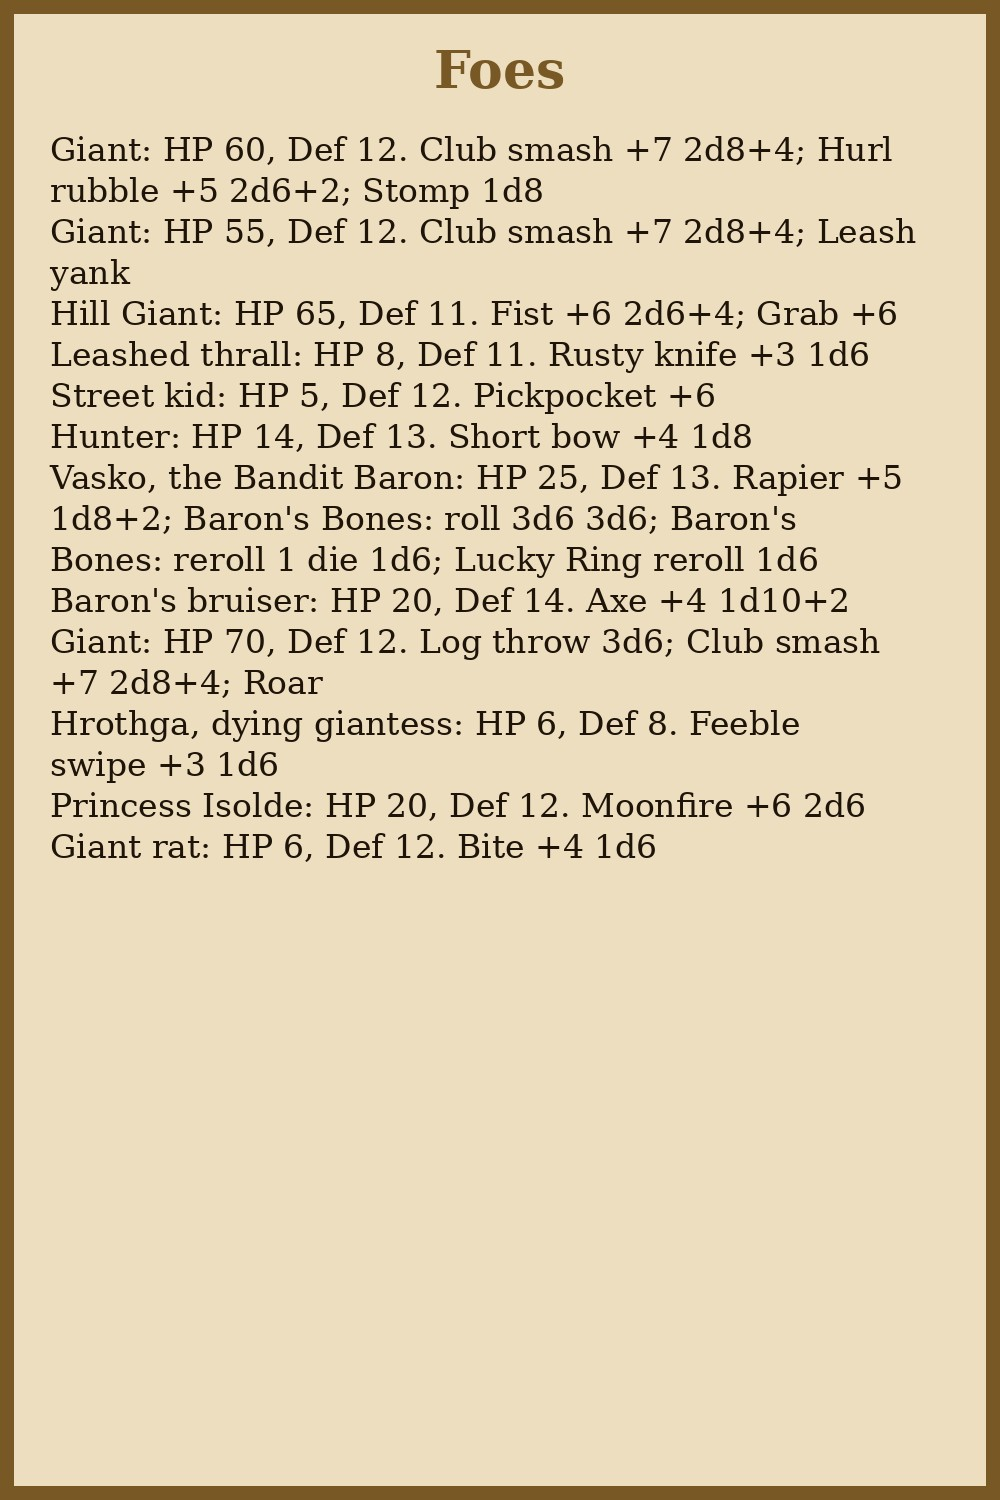
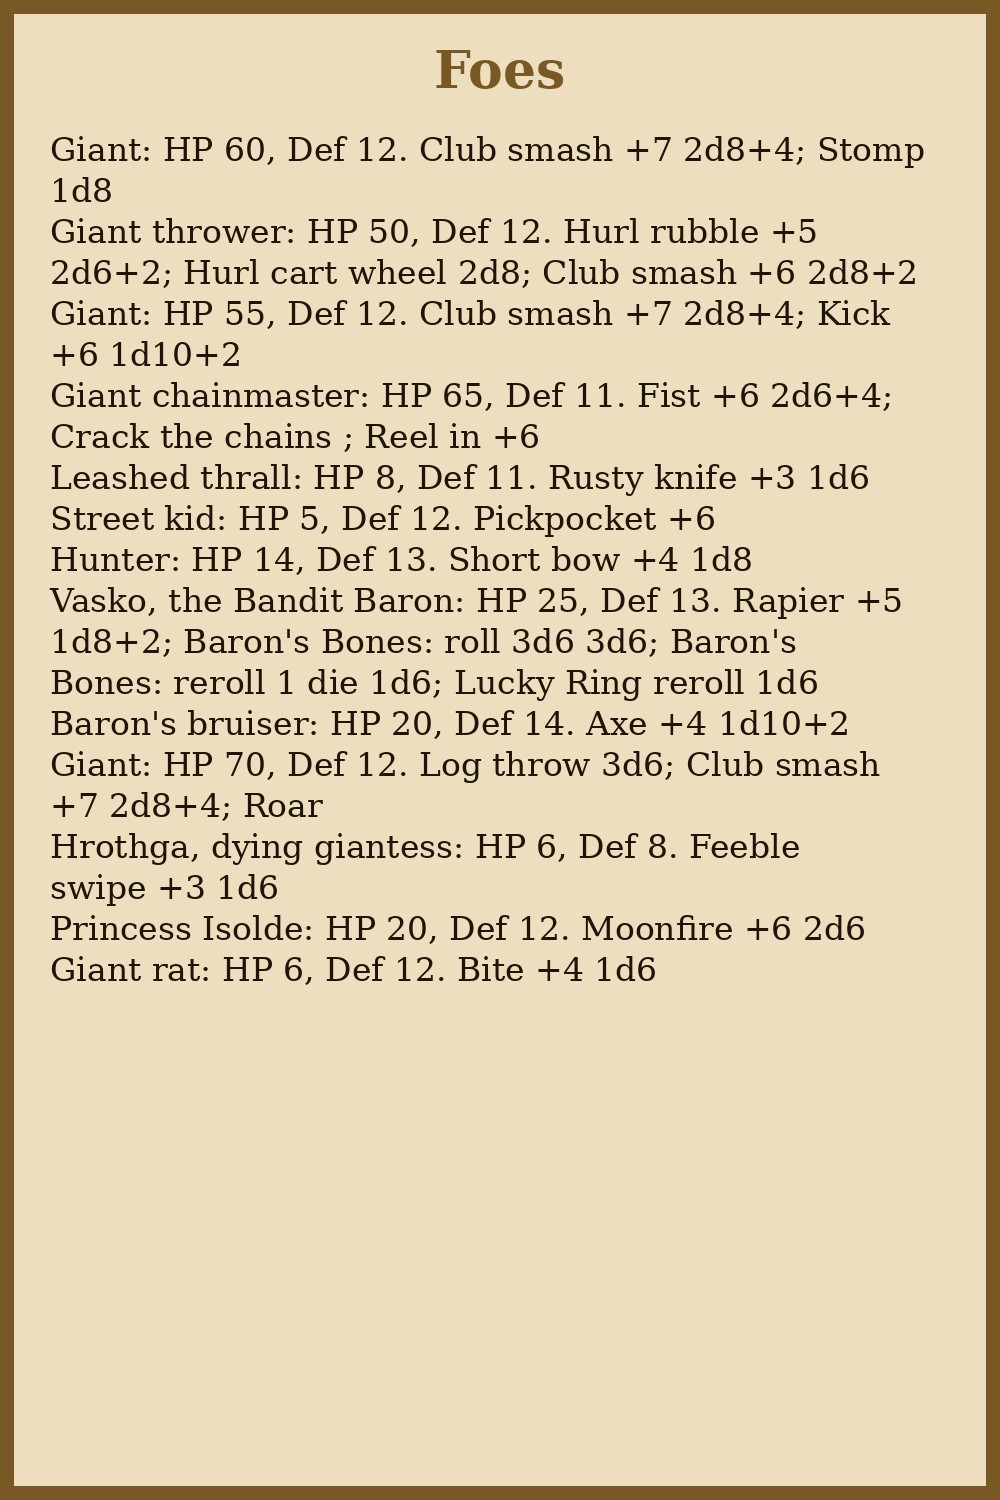
Giant chainmaster holds the thralls' chains; Giant thrower; Kick replaces Leash yank

Changed region(s): [[0.031, 0.1227, 0.93, 0.6747], [0.589, 0.6133, 0.868, 0.6747], [0.806, 0.092, 0.93, 0.1227]]

diff --git a/content.py b/content.py
@@ -136,20 +136,27 @@ Stats: Might (force, climbing, lifting), Agility (sneak, dodge, lockpick), Wits 
 NPCS = {
     "giant_club": dict(name="Giant", fig="rpg_CYCLOP", hp=60, defense=12, attacks=[
         ("Club smash", 7, "2d8+4", "melee, reach 2"),
-        ("Hurl rubble", 5, "2d6+2", "range 10"),
         ("Stomp", None, "1d8", "all adjacent: Agility DC 13 or take it and fall prone"),
     ], notes="WICKER SHIELD: ranged attacks against it get -5 unless the shield is burned. Moves 8."),
+    "giant_thrower": dict(name="Giant thrower", fig="rpg_CYCLOP", scale=0.9, hp=50, defense=12, attacks=[
+        ("Hurl rubble", 5, "2d6+2", "range 10"),
+        ("Hurl cart wheel", None, "2d8", "a line 6 long, Agility DC 13 for half"),
+        ("Club smash", 6, "2d8+2", "melee, reach 2"),
+    ], notes="Hangs back and throws whatever the street offers. Moves 8."),
     "giant_eye": dict(name="Giant", fig="rpg_CYCLOP", hp=55, defense=12, attacks=[
         ("Club smash", 7, "2d8+4", "melee, reach 2"),
-        ("Leash yank", None, None, "pulls its thrall back next to it"),
+        ("Kick", 6, "1d10+2", "melee, target flies 3 squares and falls prone"),
     ], notes="WICKER SHIELD: ranged -5. One eye: a blinding trick (sand, light) makes it miss next turn."),
-    "giant_troll": dict(name="Hill Giant", fig="rpg_CYCLOP", scale=1.2, base=(0.2, 0.45, 0.15), hp=65, defense=11, attacks=[
+    "giant_troll": dict(name="Giant chainmaster", fig="rpg_CYCLOP", scale=1.2, base=(0.2, 0.45, 0.15), hp=65, defense=11,
+                        attacks=[
         ("Fist", 6, "2d6+4", "melee, reach 2"),
-        ("Grab", 6, None, "target is held: Might DC 14 to break free, 1d6 each turn"),
-    ], notes="WICKER SHIELD: ranged -5. Slow, moves 6."),
+        ("Crack the chains", None, None, "every thrall moves 3 and makes a free Rusty knife attack"),
+        ("Reel in", 6, None, "range 6: target is dragged next to him and held, Might DC 14 to break free"),
+    ], notes="Holds all the thralls' chains. THRALL SHIELD: when he is hit, an adjacent thrall can take the blow "
+             "instead. Kill or drop him and the chains go slack: every thrall flees. Slow, moves 6."),
     "thrall": dict(name="Leashed thrall", fig="rpg_GHOUL", hp=8, defense=11, attacks=[
         ("Rusty knife", 3, "1d6", "melee"),
-    ], notes="Captured looter on a chain. Cutting the leash (Agility DC 12) and the thrall runs off."),
+    ], notes="Captured looter on the Chainmaster's chain. Cutting the leash (Agility DC 12) and the thrall runs off."),
     "street_kid": dict(name="Street kid", fig="rpg_KOBOLD", hp=5, defense=12, attacks=[
         ("Pickpocket", 6, None, "steals 1 gold if it beats the target's Defense"),
     ], notes="Speaks only Dravic. Works for the Bandit Baron."),
@@ -292,7 +299,7 @@ fenced in Holst by the thieves' guild. The giants came to take it back - and eve
          npcs=[("street_kid", -4, 3), ("street_kid", -3, 4), ("street_kid", -5, 4),
                # the giants come round the east corner in a wedge, thralls strung out ahead of them on their chains,
                # and one giant flanks along the ruins in the south
-               ("giant_troll", 7.3, -1.3), ("giant_club", 8.6, -0.5), ("giant_eye", 8.4, -2.8), ("giant_club", 0.5, -6.3),
+               ("giant_troll", 7.3, -1.3), ("giant_club", 8.6, -0.5), ("giant_eye", 8.4, -2.8), ("giant_thrower", 0.5, -6.3),
                ("thrall", 7.5, 0.9), ("thrall", 7.0, 0.2), ("thrall", 6.4, -0.3), ("thrall", 5.8, -0.9),
                ("thrall", 4.6, -1.2), ("thrall", 6.0, -1.9), ("thrall", 5.9, -3.0)],
          notes="""Read aloud: "Holst's gate hangs open. Doors are smashed in, from above. Footprints the size
@@ -306,7 +313,8 @@ STREET KIDS (Dravic only): hands out, "Pénz? Pénz?" (money). Fighter can make 
 GIANTS: hide them at the start (select, TOGGLE VISIBILITY). After a few minutes the ground shakes: toggle
 them back. Four giants round the
 corner with thralls on chains, wicker shields raised. THIS FIGHT IS MEANT TO BE FLED.
-  Switch to BATTLE music. Giants move 8 (the Hill Giant 6), thralls 6. Let them feel the danger: first giant hit is big.
+  Switch to BATTLE music. Giants move 8 (the Chainmaster 6), thralls 6.
+  The Chainmaster (big, green base) holds every thrall's chain: drop him and the thralls scatter. Let them feel the danger: first giant hit is big.
   Escape: the sewer grate (centre-south). Might DC 12 to lift, or the kids point at it and scatter.
   Anyone who jumps in: next scene."""),
 

diff --git a/test_lua.py b/test_lua.py
@@ -407,7 +407,7 @@ end
 """)
 npc.execute(giant["LuaScript"])
 ng.onLoad(giant["LuaScriptState"])
-assert "ProgressBar" in ng.xml and ng.xml.count("<Button") == 3
+assert "ProgressBar" in ng.xml and ng.xml.count("<Button") == len(json.loads(giant["LuaScriptState"])["attacks"])
 assert 'rotation="90 -90 90"' in ng.xml            # upright bar facing the way the figure faces
 ng.applyDamage(None, "+12")
 assert ng.attrs["bar.percentage"] == "80" and ng.attrs["hp.text"].startswith("48/60")

diff --git a/GM_GUIDE.md b/GM_GUIDE.md
@@ -61,10 +61,11 @@ Stats: Might (force, climbing, lifting), Agility (sneak, dodge, lockpick), Wits 
 
 ## NPCs
 
-- **Giant** HP 60, Def 12. Club smash (+7, 2d8+4, melee, reach 2); Hurl rubble (+5, 2d6+2, range 10); Stomp (no roll, 1d8, all adjacent: Agility DC 13 or take it and fall prone). WICKER SHIELD: ranged attacks against it get -5 unless the shield is burned. Moves 8.
-- **Giant** HP 55, Def 12. Club smash (+7, 2d8+4, melee, reach 2); Leash yank (no roll, -, pulls its thrall back next to it). WICKER SHIELD: ranged -5. One eye: a blinding trick (sand, light) makes it miss next turn.
-- **Hill Giant** HP 65, Def 11. Fist (+6, 2d6+4, melee, reach 2); Grab (+6, -, target is held: Might DC 14 to break free, 1d6 each turn). WICKER SHIELD: ranged -5. Slow, moves 6.
-- **Leashed thrall** HP 8, Def 11. Rusty knife (+3, 1d6, melee). Captured looter on a chain. Cutting the leash (Agility DC 12) and the thrall runs off.
+- **Giant** HP 60, Def 12. Club smash (+7, 2d8+4, melee, reach 2); Stomp (no roll, 1d8, all adjacent: Agility DC 13 or take it and fall prone). WICKER SHIELD: ranged attacks against it get -5 unless the shield is burned. Moves 8.
+- **Giant thrower** HP 50, Def 12. Hurl rubble (+5, 2d6+2, range 10); Hurl cart wheel (no roll, 2d8, a line 6 long, Agility DC 13 for half); Club smash (+6, 2d8+2, melee, reach 2). Hangs back and throws whatever the street offers. Moves 8.
+- **Giant** HP 55, Def 12. Club smash (+7, 2d8+4, melee, reach 2); Kick (+6, 1d10+2, melee, target flies 3 squares and falls prone). WICKER SHIELD: ranged -5. One eye: a blinding trick (sand, light) makes it miss next turn.
+- **Giant chainmaster** HP 65, Def 11. Fist (+6, 2d6+4, melee, reach 2); Crack the chains (no roll, -, every thrall moves 3 and makes a free Rusty knife attack); Reel in (+6, -, range 6: target is dragged next to him and held, Might DC 14 to break free). Holds all the thralls' chains. THRALL SHIELD: when he is hit, an adjacent thrall can take the blow instead. Kill or drop him and the chains go slack: every thrall flees. Slow, moves 6.
+- **Leashed thrall** HP 8, Def 11. Rusty knife (+3, 1d6, melee). Captured looter on the Chainmaster's chain. Cutting the leash (Agility DC 12) and the thrall runs off.
 - **Street kid** HP 5, Def 12. Pickpocket (+6, -, steals 1 gold if it beats the target's Defense). Speaks only Dravic. Works for the Bandit Baron.
 - **Refugee** HP 6, Def 10. . Hungry and scared.
 - **Old Pell (merchant)** HP 8, Def 10. . Sells from his pack and the barrels behind him: rope, torches, lamp oil, chalk, 1 gold each. Out of food. Knows the Bandit Baron's men buy his best wine every night.
@@ -108,7 +109,8 @@ STREET KIDS (Dravic only): hands out, "Pénz? Pénz?" (money). Fighter can make 
 GIANTS: hide them at the start (select, TOGGLE VISIBILITY). After a few minutes the ground shakes: toggle
 them back. Four giants round the
 corner with thralls on chains, wicker shields raised. THIS FIGHT IS MEANT TO BE FLED.
-  Switch to BATTLE music. Giants move 8 (the Hill Giant 6), thralls 6. Let them feel the danger: first giant hit is big.
+  Switch to BATTLE music. Giants move 8 (the Chainmaster 6), thralls 6.
+  The Chainmaster (big, green base) holds every thrall's chain: drop him and the thralls scatter. Let them feel the danger: first giant hit is big.
   Escape: the sewer grate (centre-south). Might DC 12 to lift, or the kids point at it and scatter.
   Anyone who jumps in: next scene.
 ```
